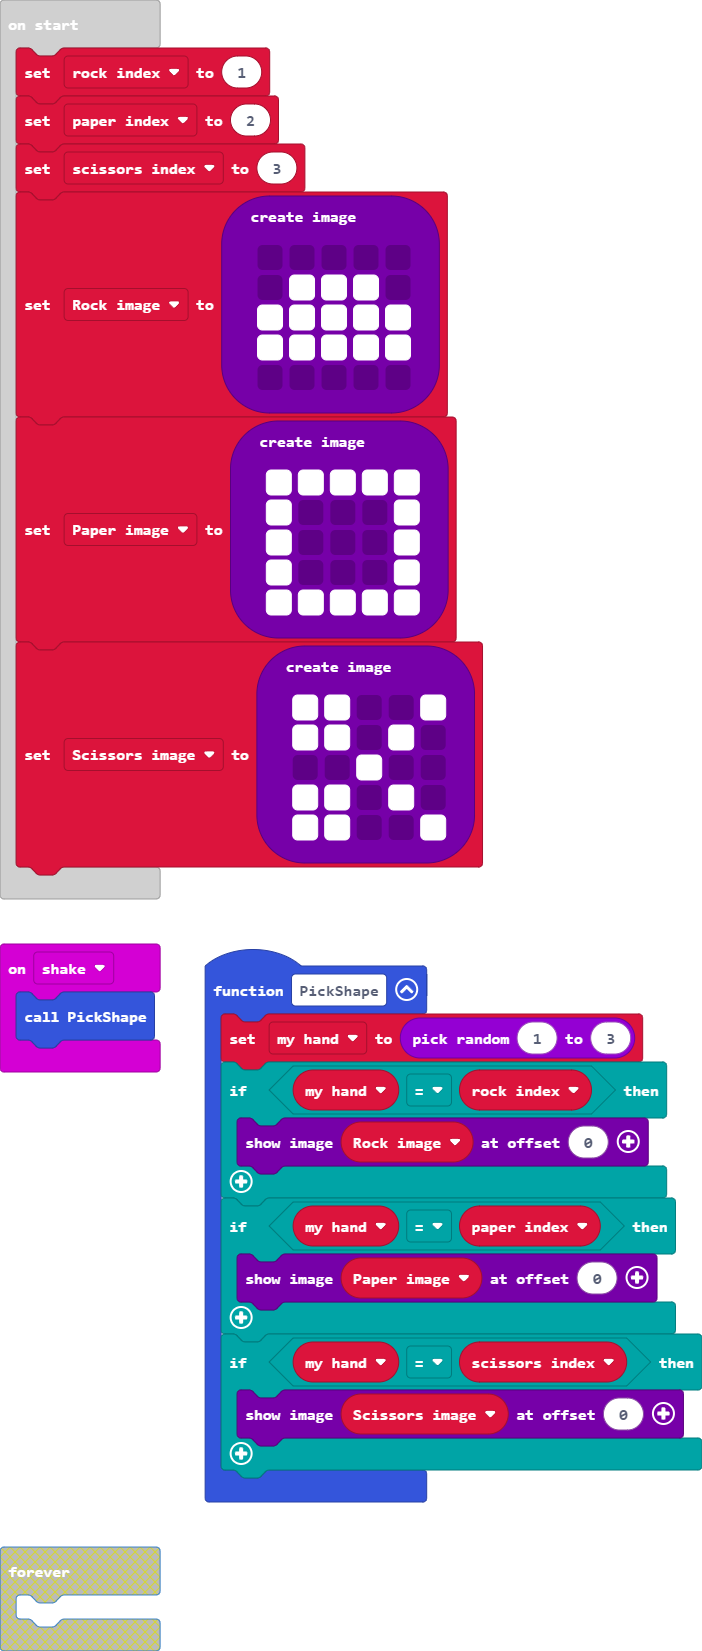
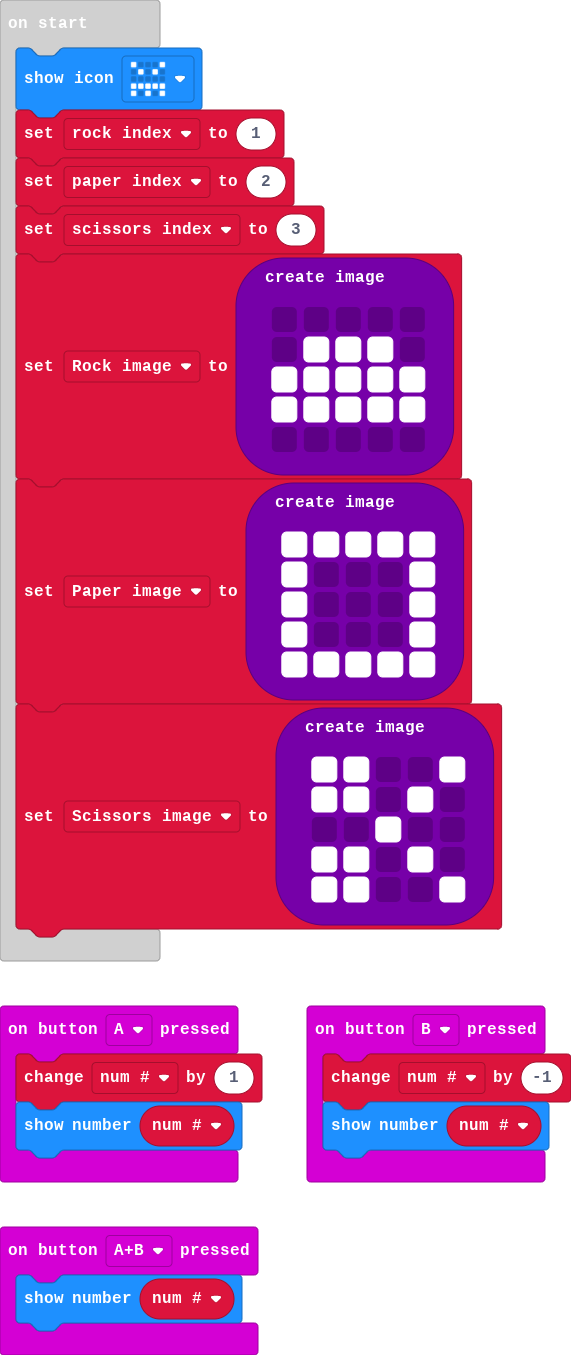
Update main.blocks, main.ts

diff --git a/main.ts b/main.ts
@@ -1,3 +1,14 @@
+input.onButtonPressed(Button.A, function () {
+    num_ += 1
+    basic.showNumber(num_)
+})
+input.onButtonPressed(Button.AB, function () {
+    basic.showNumber(num_)
+})
+input.onButtonPressed(Button.B, function () {
+    num_ += -1
+    basic.showNumber(num_)
+})
 input.onGesture(Gesture.Shake, function () {
     PickShape()
 })
@@ -14,12 +25,14 @@ function PickShape () {
     }
 }
 let my_hand = 0
+let num_ = 0
 let Scissors_image: Image = null
 let Paper_image: Image = null
 let Rock_image: Image = null
 let scissors_index = 0
 let paper_index = 0
 let rock_index = 0
+basic.showIcon(IconNames.Angry)
 rock_index = 1
 paper_index = 2
 scissors_index = 3
